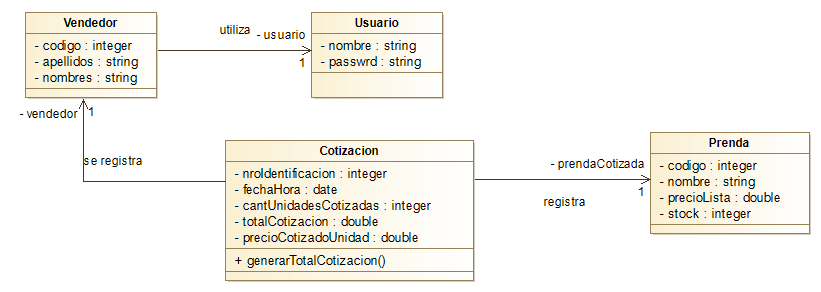
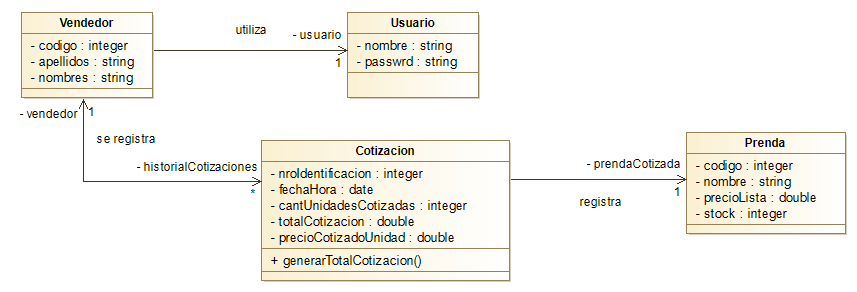
Update: Diagram class and Vendedor

diff --git a/CasoEstudioCotizaciones/src/ar/edu/unju/fi/modelo/dominio/Vendedor.java b/CasoEstudioCotizaciones/src/ar/edu/unju/fi/modelo/dominio/Vendedor.java
@@ -1,5 +1,7 @@
 package ar.edu.unju.fi.modelo.dominio;
 
+import java.util.List;
+
 /**
  * Es la persona que utiliza la aplicación
  */
@@ -8,6 +10,7 @@ public class Vendedor {
 	private String apellidos;
 	private String nombres;
 	private Usuario usuario; 
+	private List<Cotizacion> historialCotizaciones;
 	
 	public Vendedor() {
 		// TODO Auto-generated constructor stub
@@ -43,6 +46,14 @@ public class Vendedor {
 
 	public void setUsuario(Usuario usuario) {
 		this.usuario = usuario;
+	}
+
+	public List<Cotizacion> getHistorialCotizaciones() {
+		return historialCotizaciones;
+	}
+
+	public void setHistorialCotizaciones(List<Cotizacion> historialCotizaciones) {
+		this.historialCotizaciones = historialCotizaciones;
 	}
 	
 	
